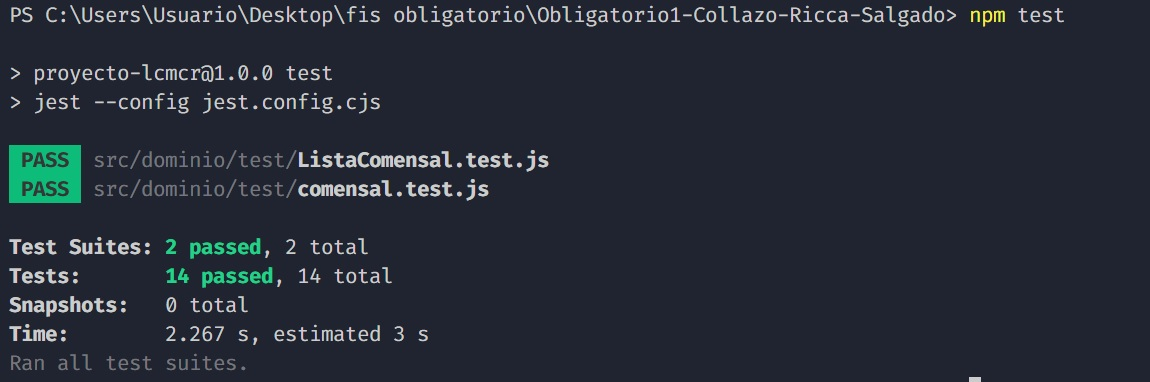
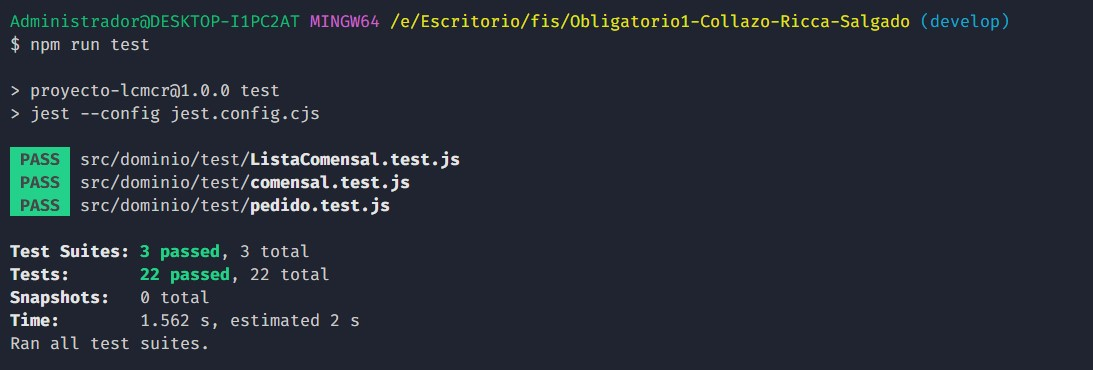
added unitary test for Pedido.js and modified the class to pass the test modified passedTests.jpg

diff --git a/src/dominio/test/pedido.test.js b/src/dominio/test/pedido.test.js
@@ -1,0 +1,55 @@
+import { Pedido } from '../pedido.js';
+
+describe('Pedido', () => {
+  
+  test ("crear un pedido dia", () => {
+    let pedido = new Pedido("Lunes", "Menu", "22/10/2000", "Comensal");
+    expect(pedido.getDia()).toBe("Lunes");
+  });
+
+  test ("crear un pedido detalle", () => {
+    let pedido = new Pedido("Lunes", "Menu", "22/10/2000", "Comensal");
+    expect(pedido.getDetalle()).toBe("Menu");
+  });
+
+  test ("crear un pedido fecha", () => {
+    let pedido = new Pedido("Lunes", "Menu", "22/10/2000", "Comensal");
+    expect(pedido.getFecha()).toBe("22/10/2000");
+  });
+
+  test ("crear un pedido comensal", () => {
+    let pedido = new Pedido("Lunes", "Menu", "22/10/2000", "Comensal");
+    expect(pedido.getComensal()).toBe("Comensal");
+  });
+
+  test ("crear un pedido dia vacio", () => {
+    let pedido = new Pedido("", "Menu", "22/10/2000", "Comensal");
+    const error = "El dia no puede estar vacio";
+    expect(() => pedido.isValid()).toThrow(error);
+  });
+
+  test ("crear un pedido detalle vacio", () => {
+    let pedido = new Pedido("Lunes", "", "22/10/2000", "Comensal");
+    const error = "El detalle no puede estar vacio";
+    expect(() => pedido.isValid()).toThrow(error);
+  });
+
+  test ("crear un pedido fecha vacio", () => {
+    let pedido = new Pedido("Lunes", "Menu", "", "Comensal");
+    const error = "La fecha no puede estar vacia o ser invalida";
+    expect(() => pedido.isValid()).toThrow(error);
+  });
+
+  test ("crear un pedido fecha invalida", () => {
+    let pedido = new Pedido("Lunes", "Menu", "Esto no es una fecha", "Comensal");
+    const error = "La fecha no puede estar vacia o ser invalida";
+    expect(() => pedido.isValid()).toThrow(error);
+  });
+
+  test ("crear un pedido comensal vacio", () => {
+    let pedido = new Pedido("Lunes", "Menu", "22/10/2000", "");
+    const error = "El comensal no puede estar vacio";
+    expect(() => pedido.isValid()).toThrow(error);
+  });
+
+});

diff --git a/src/dominio/Pedido.js b/src/dominio/Pedido.js
@@ -49,4 +49,36 @@ export class Pedido {
   toString() {
     return `${this.getDetalle()}`;
   }
+
+  validDate() { 
+    let fecha = this.getFecha();
+    if (fecha.length != 10) {
+      return false;
+    }
+    let dia = fecha.substring(0,2);
+    let mes = fecha.substring(3,5);
+    if (dia > 31 || dia < 1) {
+      return false;
+    }
+    if (mes > 12 || mes < 1) {
+      return false;
+    }
+    return true;
+  }
+
+  isValid() {
+    if (this.getDia() == null || this.getDia() == "") {
+      throw new Error("El dia no puede estar vacio");
+    }
+    if (this.getDetalle() == null || this.getDetalle() == "") {
+      throw new Error("El detalle no puede estar vacio");
+    }
+    if (this.getFecha() == null || this.getFecha() == "" || !this.validDate()) {
+      throw new Error("La fecha no puede estar vacia o ser invalida");
+    }
+    if (this.getComensal() == null || this.getComensal() == "") {
+      throw new Error("El comensal no puede estar vacio");
+    }
+    return true;
+  }
 }
